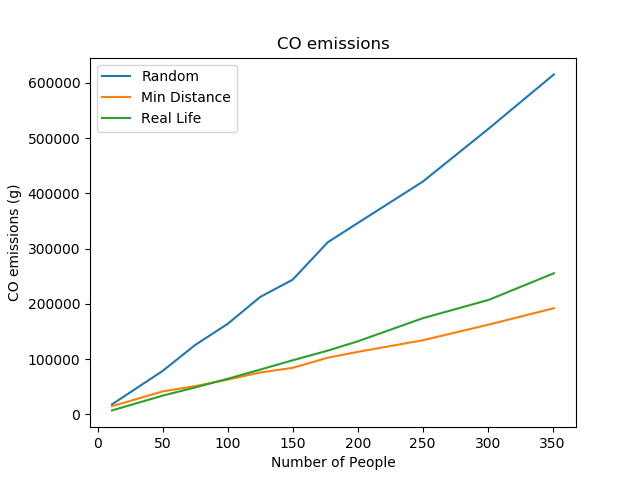
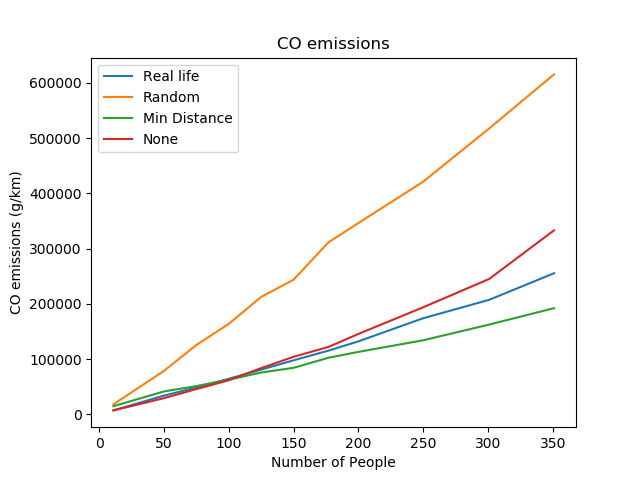
Added "none" runs to charts

diff --git a/Result Analysis/resultsAnalysis.py b/Result Analysis/resultsAnalysis.py
@@ -4,119 +4,96 @@ import pandas as pd
 # inputs
 reports = ["report-total-co-emissions", "report-number-riders", "report-num-cars-stopped", "report-mean-speed-cars",
            "report-average-wait-time-cars", "report-average-rider-score-group", "report-average-walking-turtle-score", "report-number-walking-turtles"]
-number_runs = 120
+number_runs = 40
 number_clusters = 8
-inputCSV = "./Runs/351People.csv"
-csv_name = "results_351People.csv"
 
+number_list = [351]
 
-#outputs
-number_persons = 0
-infos_sum = {
-    "number_people": 0,
-    "Random": {
-        "counter": 0,
-        "report-total-co-emissions": 0,
-        "report-number-riders": 0,
-        "report-num-cars-stopped": 0,
-        "report-mean-speed-cars": 0,
-        "report-average-wait-time-cars": 0,
-        "report-average-rider-score-group": 0,
-        "report-average-walking-turtle-score": 0,
-        "report-number-walking-turtles": 0
-    },
-    "Min Distance": {
-        "counter": 0,
-        "report-total-co-emissions": 0,
-        "report-number-riders": 0,
-        "report-num-cars-stopped": 0,
-        "report-mean-speed-cars": 0,
-        "report-average-wait-time-cars": 0,
-        "report-average-rider-score-group": 0,
-        "report-average-walking-turtle-score": 0,
-        "report-number-walking-turtles": 0
-    },
-    "Best!": {
-        "counter": 0,
-        "report-total-co-emissions": 0,
-        "report-number-riders": 0,
-        "report-num-cars-stopped": 0,
-        "report-mean-speed-cars": 0,
-        "report-average-wait-time-cars": 0,
-        "report-average-rider-score-group": 0,
-        "report-average-walking-turtle-score": 0,
-        "report-number-walking-turtles": 0
+for number in number_list:
+    inputCSV = "./Runs/{}PeopleNONE.csv".format(number)
+    csv_name = "results_{}PeopleNONE.csv".format(number)
+    #outputs
+    number_persons = 0
+    infos_sum = {
+        "number_people": 0,
+        "None": {
+            "counter": 0,
+            "report-total-co-emissions": 0,
+            "report-number-riders": 0,
+            "report-num-cars-stopped": 0,
+            "report-mean-speed-cars": 0,
+            "report-average-wait-time-cars": 0,
+            "report-average-rider-score-group": 0,
+            "report-average-walking-turtle-score": 0,
+            "report-number-walking-turtles": 0
+        },
+        "Random": {
+            "counter": 0,
+            "report-total-co-emissions": 0,
+            "report-number-riders": 0,
+            "report-num-cars-stopped": 0,
+            "report-mean-speed-cars": 0,
+            "report-average-wait-time-cars": 0,
+            "report-average-rider-score-group": 0,
+            "report-average-walking-turtle-score": 0,
+            "report-number-walking-turtles": 0
+        },
+        "Min Distance": {
+            "counter": 0,
+            "report-total-co-emissions": 0,
+            "report-number-riders": 0,
+            "report-num-cars-stopped": 0,
+            "report-mean-speed-cars": 0,
+            "report-average-wait-time-cars": 0,
+            "report-average-rider-score-group": 0,
+            "report-average-walking-turtle-score": 0,
+            "report-number-walking-turtles": 0
+        },
+        "Best!": {
+            "counter": 0,
+            "report-total-co-emissions": 0,
+            "report-number-riders": 0,
+            "report-num-cars-stopped": 0,
+            "report-mean-speed-cars": 0,
+            "report-average-wait-time-cars": 0,
+            "report-average-rider-score-group": 0,
+            "report-average-walking-turtle-score": 0,
+            "report-number-walking-turtles": 0
+        }
     }
-}
 
-df = pd.read_csv(inputCSV, skiprows=6,  sep=',',index_col=0)
-for cluster_number in range(number_clusters):
-    infos_sum["number_people"] += int(df.loc["cluster-{}".format(cluster_number)].iloc[0])
+    df = pd.read_csv(inputCSV, skiprows=6,  sep=',',index_col=0)
+    for cluster_number in range(number_clusters):
+        infos_sum["number_people"] += int(df.loc["cluster-{}".format(cluster_number)].iloc[0])
 
-for index in range(1,number_runs + 1):
-    run = df.filter(regex='^({}|{}\..*)$'.format(index,index))
-    matching = run.loc["matching-algorythm", :].iloc[0]
-    infos_sum[matching]["counter"] += 1
-    reporters = run.loc['[reporter]', :]
-    for report in reports:      
-        column_score = pd.Index(reporters).get_loc(report)
-        if report == "report-total-co-emissions" or report == "report-number-riders" or report == "report-total-co-emissions":
-            infos_sum[matching][report] += float(run.loc["[max]"].iloc[column_score])
-        else:
-            infos_sum[matching][report] += float(run.loc["[mean]"].iloc[column_score])
+    for index in range(1,number_runs + 1):
+        run = df.filter(regex='^({}|{}\..*)$'.format(index,index))
+        matching = run.loc["matching-algorythm", :].iloc[0]
+        infos_sum[matching]["counter"] += 1
+        reporters = run.loc['[reporter]', :]
+        for report in reports:      
+            column_score = pd.Index(reporters).get_loc(report)
+            if report == "report-total-co-emissions" or report == "report-number-riders" or report == "report-total-co-emissions":
+                infos_sum[matching][report] += float(run.loc["[max]"].iloc[column_score])
+            else:
+                infos_sum[matching][report] += float(run.loc["[mean]"].iloc[column_score])
 
 
-for matching in infos_sum:
-    counter = 0
-    if(matching == "number_people"):
-        continue
-    for report in infos_sum[matching]:
-        if(report == "counter"):
-            counter = infos_sum[matching][report]
-        else:
-            if(counter != 0):
-                infos_sum[matching][report] = infos_sum[matching][report]/counter
-
-# infos_sum = {
-#     "number_people": 0,
-#     "Random": {
-#         "counter": 0,
-#         "report-total-co-emissions": 0,
-#         "report-number-riders": 0,
-#         "report-num-cars-stopped": 0,
-#         "report-mean-speed-cars": 0,
-#         "report-average-wait-time-cars": 0,
-#         "report-average-rider-score-group": 0,
-#         "report-average-walking-turtle-score": 0,
-#         "report-number-walking-turtles": 0
-#     },
-#     "Min Distance": {
-#         "counter": 0,
-#         "report-total-co-emissions": 0,
-#         "report-number-riders": 0,
-#         "report-num-cars-stopped": 0,
-#         "report-mean-speed-cars": 0,
-#         "report-average-wait-time-cars": 0,
-#         "report-average-rider-score-group": 0,
-#         "report-average-walking-turtle-score": 0,
-#         "report-number-walking-turtles": 0
-#     },
-#     "Best!": {
-#         "counter": 0,
-#         "report-total-co-emissions": 0,
-#         "report-number-riders": 0,
-#         "report-num-cars-stopped": 0,
-#         "report-mean-speed-cars": 0,
-#         "report-average-wait-time-cars": 0,
-#         "report-average-rider-score-group": 0,
-#         "report-average-walking-turtle-score": 0,
-#         "report-number-walking-turtles": 0
-#     }
-# }
-with open(csv_name, 'w') as f:
     for matching in infos_sum:
+        counter = 0
         if(matching == "number_people"):
-            f.write("%s,%s\n" % (matching, infos_sum[matching]))
-        else:
-            for report in infos_sum[matching]:
-                f.write("%s,%s\n" % (matching+report, infos_sum[matching][report]))
+            continue
+        for report in infos_sum[matching]:
+            if(report == "counter"):
+                counter = infos_sum[matching][report]
+            else:
+                if(counter != 0):
+                    infos_sum[matching][report] = infos_sum[matching][report]/counter
+
+    with open(csv_name, 'w') as f:
+        for matching in infos_sum:
+            if(matching == "number_people"):
+                f.write("%s,%s\n" % (matching, infos_sum[matching]))
+            else:
+                for report in infos_sum[matching]:
+                    f.write("%s,%s\n" % (matching+report, infos_sum[matching][report]))

diff --git a/Result Analysis/resultsCharts.py b/Result Analysis/resultsCharts.py
@@ -2,18 +2,28 @@ import pandas as pd
 import matplotlib.pyplot as plt
 
 csv_name = 'total_results.csv'
-matchings = ["Random", "Min Distance", "Best!"]
+matchings = ["Best!", "Random", "Min Distance", "None"]
+
+# report-total-co-emissions
+# report-number-riders
+# report-num-cars-stopped
+# report-mean-speed-cars
+# report-average-wait-time-cars
+# report-average-rider-score-group
+# report-average-walking-turtle-score
+# report-number-walking-turtles
 
 report_compare = "report-number-walking-turtles"
-
+title = "Number of unmatched people"
+ylabel = "Number of unmatched people"
 
 data = pd.read_csv(csv_name, sep=';', header=None, index_col=0)
 number_people = data.loc["number_people", :].values
 for mathing in matchings:
   plt.plot(number_people, data.loc[mathing+report_compare, :].values)
 
-plt.legend(['Random', 'Min Distance', 'Real Life'], loc='upper left')
-plt.title("Number of unmatched people")
+plt.legend(["Real life", "Random", "Min Distance", "None"], loc='upper left')
+plt.title(title)
+plt.ylabel(ylabel)
 plt.xlabel("Number of People")
-plt.ylabel("Number of unmatched people")
 plt.show()
